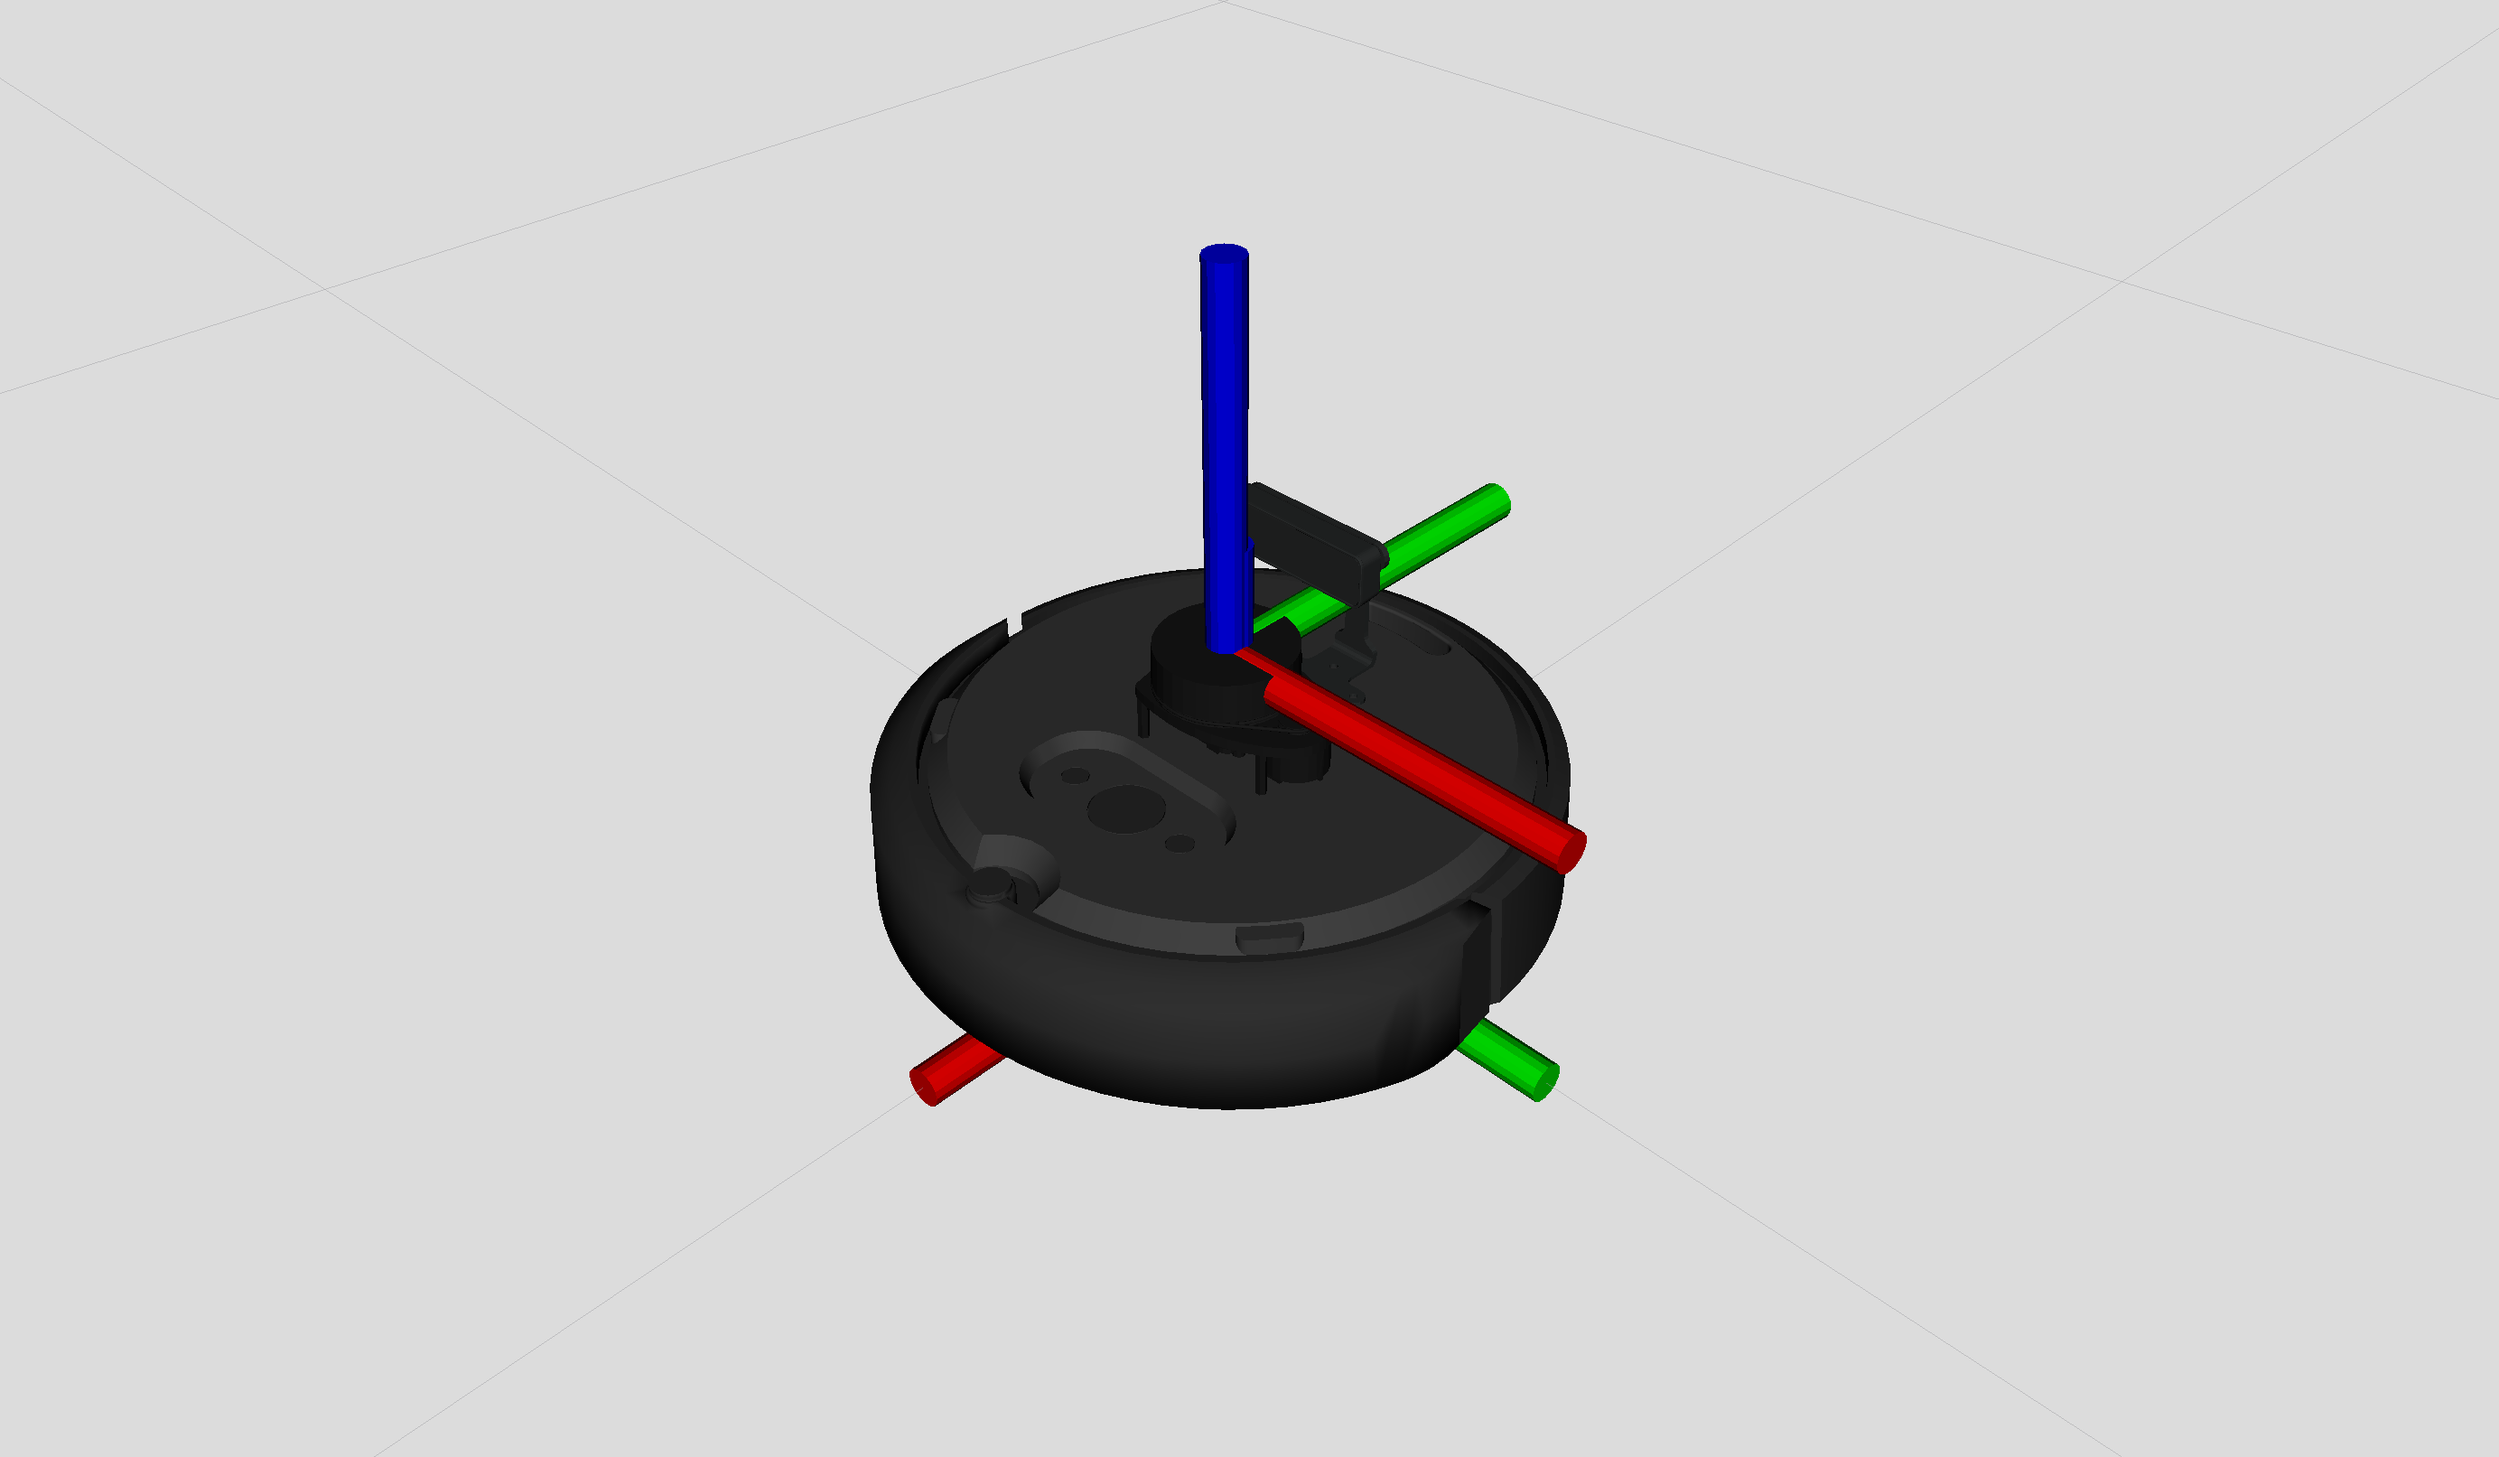
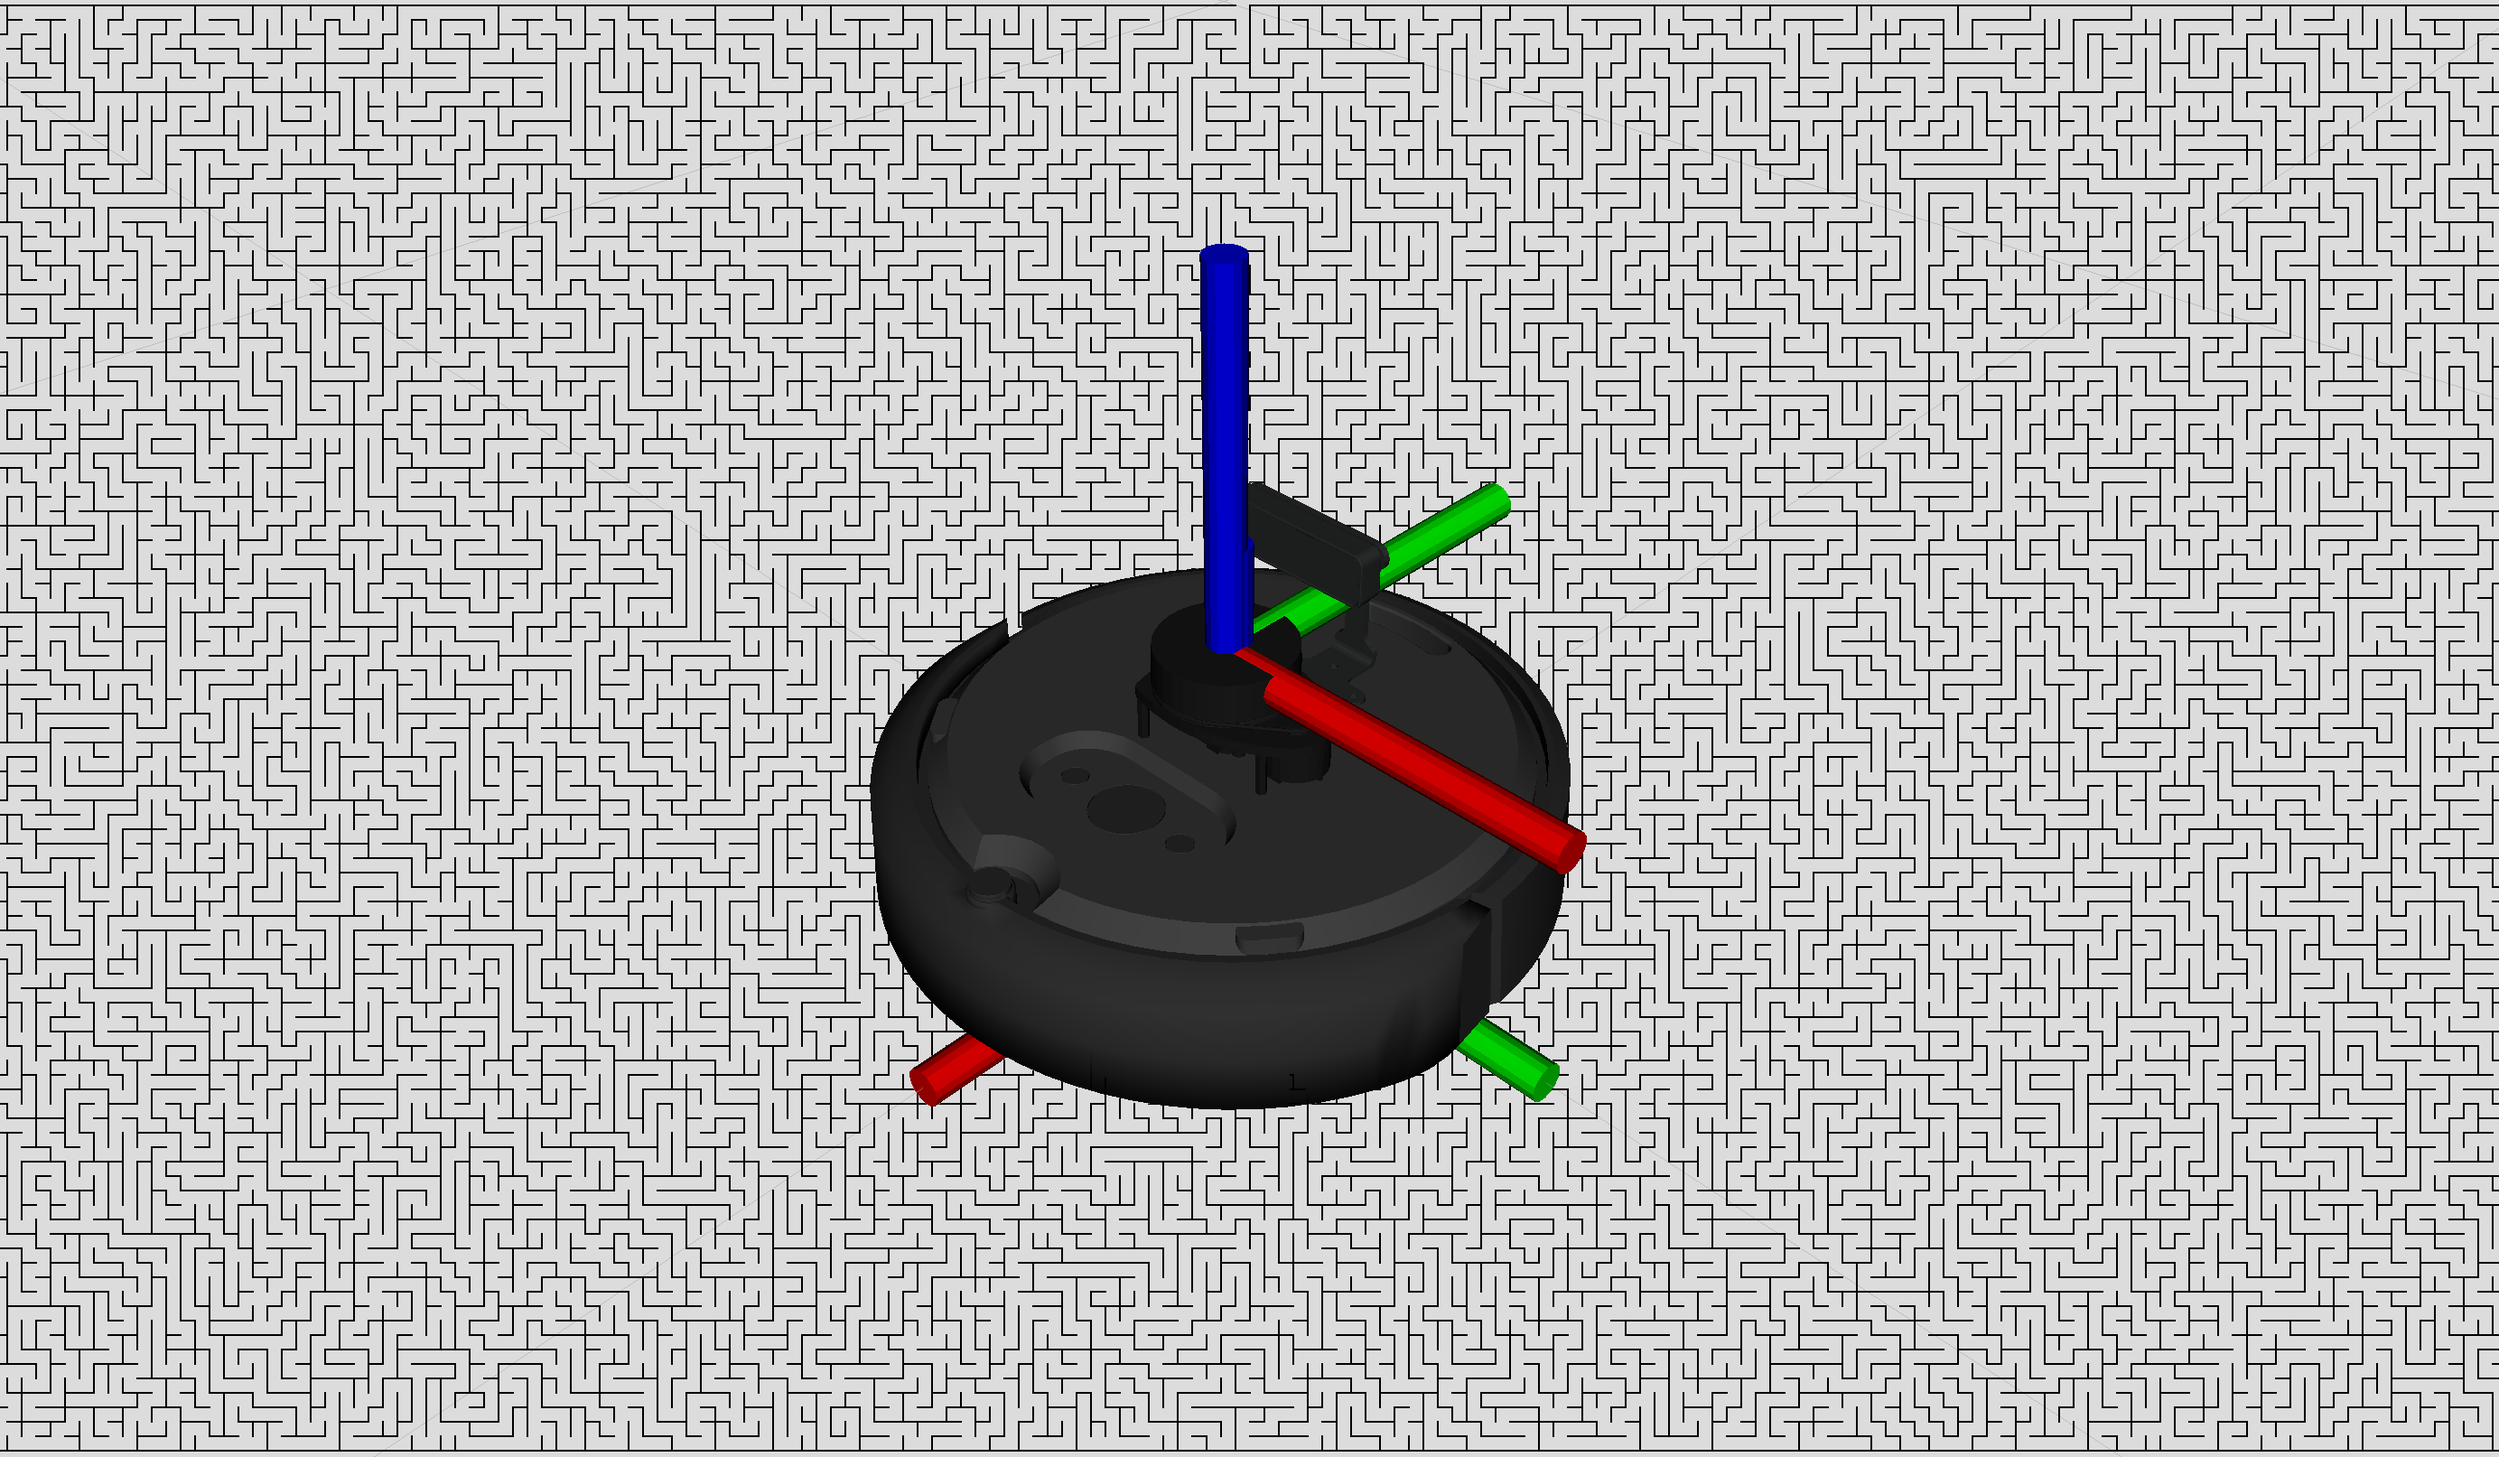
images for labs 1 & 3

Changed region(s): [[0.0, 0.0, 1.0, 1.0]]

diff --git a/lab1/lab1.md b/lab1/lab1.md
@@ -1,5 +1,7 @@
 # Lab 1: Intro to Linux and ROS
 
+![welcome_to_techin516](/docs/graphic_design_is_my_passion.png)
+
 Most robotics technologies are developed for Linux.  
 All labs for the GIX robotics studios are to be completed in the Ubuntu 22.04 distribution of Linux.  
 It is highly recommended to dual-boot your machine to run Ubuntu for full compatability with robotic technologies.  
@@ -72,11 +74,12 @@ Copy and paste the table into your lab report to fill-in.
 Alternatively, speak with the professor about borrowing a laptop from GIX IT for a short period of time.
 
 **Q:** Can I use a virtual machine instead of dual-booting?  
-**A:** Virtual machines work for some basic features of Ubuntu and ROS2, but they have issues utilizing GPUs for heavy computations and simulations, and have issues connecting to real robots.
+**A:** Virtual machines work for some basic features of Ubuntu and ROS2.  
+They have issues utilizing GPUs for heavy computations and simulations, and have issues connecting to real robots.
 
 **Q:** Can I use WSL2 insteaf of dual-booting?  
 **A:** There are mixed reviews online about how well ROS2 works on WSL.  
-You may try, but WSL unique issues will not be supported in this class. 
+You can try, but WSL unique issues will not be supported in this class. 
 
 
 ## Resources

diff --git a/lab3/lab3.md b/lab3/lab3.md
@@ -1,5 +1,7 @@
 # Lab 3: Intro to Simulation
 
+![intro_to_simulation](/docs/turtle_in_the_matrix.png)
+
 In the previous lab, you ran the real robot without fully knowing what was going to happen.  
 This is fine for a small, slow Turtlebot, but can lead to serious injury in larger, faster systems.  
 This lab explores how to test robot systems in simulations, so we can safely try different control strategies.
